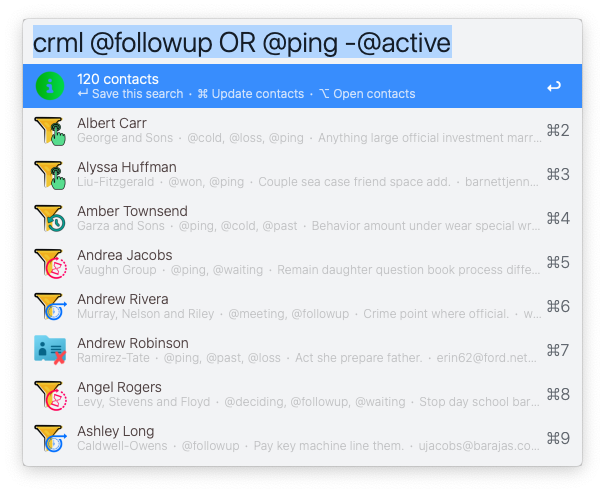
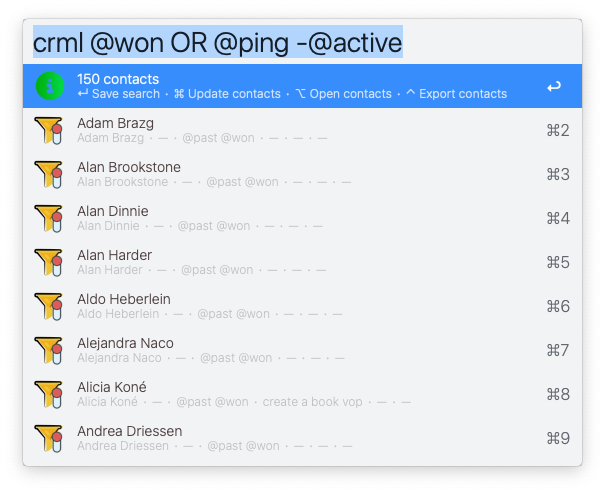
Updated readme

diff --git a/README.md b/README.md
@@ -81,7 +81,7 @@ Combine tags or any search fields *(as defined in `Configure Workflow`)* to filt
 
 ![](assets/crml2.png)   
 
-![](assets/crml3.png)   
+![](assets/crml3.png)     
 
 #### For summary row
 
@@ -90,6 +90,8 @@ Combine tags or any search fields *(as defined in `Configure Workflow`)* to filt
 <kbd>⌘</kbd><kbd>↵</kbd> To perform bulk update for all filtered contacts
 
 <kbd>⌘</kbd><kbd>⌥</kbd> To open contact files for all filtered contacts
+
+<kbd>⌘</kbd><kbd>⌃</kbd> To export contacts into .csv for all filtered contacts
 
 #### For all contact rows
 
